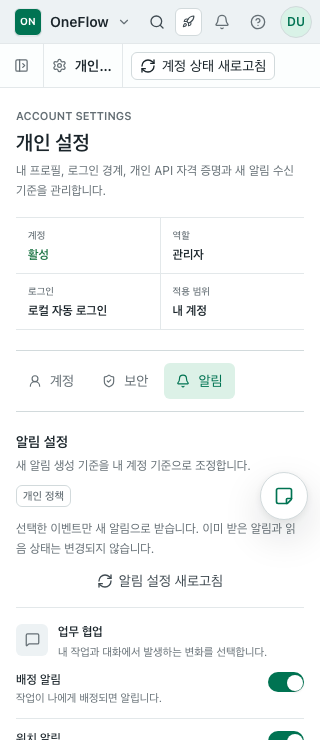
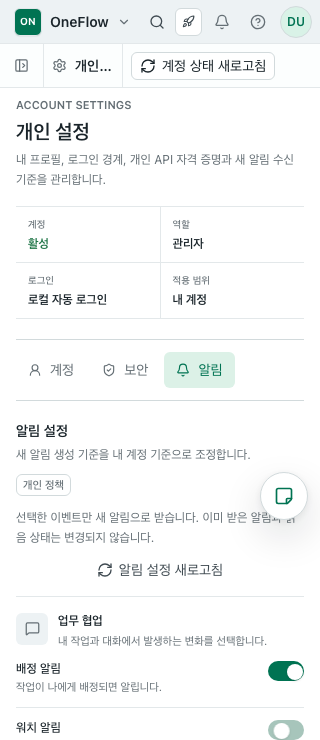
fix(settings): guard stale notification writes (#542)

diff --git a/apps/web/src/features/settings/NotificationsPanel.tsx b/apps/web/src/features/settings/NotificationsPanel.tsx
@@ -117,8 +117,10 @@ export function NotificationsPanel({ framed = true }: { framed?: boolean }) {
   const settings = useNotificationSettings()
   const update = useUpdateNotificationSettings()
   const [lastAttempt, setLastAttempt] = useState<Partial<NotificationSettings> | null>(null)
+  const writeBlocked = settings.isError || settings.isFetching
 
   const save = (input: Partial<NotificationSettings>) => {
+    if (writeBlocked) return
     setLastAttempt(input)
     update.mutate(input, {
       onSuccess: () => setLastAttempt(null),
@@ -275,7 +277,7 @@ export function NotificationsPanel({ framed = true }: { framed?: boolean }) {
                       </div>
                       <Switch
                         checked={settings.data[item.key]}
-                        disabled={update.isPending}
+                        disabled={writeBlocked || update.isPending}
                         label={`${item.label} 사용`}
                         onCheckedChange={(checked) => save({ [item.key]: checked })}
                       />
@@ -293,7 +295,9 @@ export function NotificationsPanel({ framed = true }: { framed?: boolean }) {
                             id="nt-overdue-reminder-days"
                             aria-label="초과 재알림 주기"
                             value={settings.data.overdue_reminder_days}
-                            disabled={!settings.data.due_alerts || update.isPending}
+                            disabled={
+                              writeBlocked || !settings.data.due_alerts || update.isPending
+                            }
                             onChange={(event) =>
                               save({
                                 overdue_reminder_days: Number(
@@ -342,7 +346,7 @@ export function NotificationsPanel({ framed = true }: { framed?: boolean }) {
               type="button"
               size="sm"
               variant="outline"
-              disabled={!lastAttempt}
+              disabled={!lastAttempt || writeBlocked}
               onClick={() => {
                 if (lastAttempt) save(lastAttempt)
               }}
